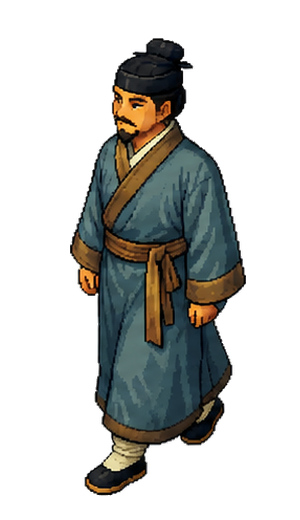
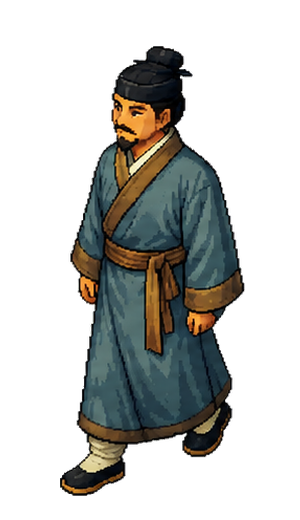
Mecenas: arregla el andar (piernas alternan) y ajusta tamaño
Revisión tras feedback: caminaban siempre con la misma pierna, se veían
grandes y entrecortados.

- Ciclo de andar REAL de 4 tiempos (contacto·paso·contacto·paso) con
  piernas alternas: la tira de IA solo tenía la pierna blanca delante, así
  que se sintetiza la zancada contraria espejando SOLO los pies bajo el bajo
  de la túnica (el resto del sprite intacto). Bob vertical natural del paso.
- Tamaño reducido (~65 px, altura de puerta) para encajar con los edificios.
- Silla reajustada (riderY) para la nueva escala del jinete.
- PNG_NF 7→4, cache-bust de sprites ?v=2.

Changed region(s): [[0.18, 0.0615, 0.84, 0.9538]]

diff --git a/assets/js/hac-char.js b/assets/js/hac-char.js
@@ -497,9 +497,9 @@ const HacChar = (function () {
   // ══════════════════════════════════════════════════════════════════════
   const PNG_DIRS  = ['SW', 'SE', 'NW', 'NE'];
   const PNG_VIEW  = { E: 'SE', SE: 'SE', S: 'SE', SW: 'SW', W: 'SW', NW: 'NW', N: 'NW', NE: 'NE' };
-  const PNG_NF    = 7;
+  const PNG_NF    = 4;                         // ciclo de andar (4 tiempos, alterna piernas)
   const M_W = 300, M_H = 520, M_FEET = 496;    // geometría del maestro
-  const PNG_H = 90;                            // alto del lienzo horneado (px dispositivo)
+  const PNG_H = 74;                            // alto del lienzo horneado (px dispositivo)
   const PNG_W = Math.round(M_W * PNG_H / M_H); //  → ~80 px de personaje
   const PNG_FEET = Math.round(M_FEET * PNG_H / M_H);
   let pngImgs = null, pngBaked = null, pngReadyFlag = false;
@@ -519,7 +519,7 @@ const HacChar = (function () {
   }
   function pngLoad() {
     if (typeof document === 'undefined' || !document.createElement) return;
-    const base = 'assets/img/char/', V = '?v=1';
+    const base = 'assets/img/char/', V = '?v=2';
     pngImgs = {}; let need = 0, got = 0;
     const done = () => { if (++got >= need && !pngReadyFlag) { try { pngBake(); } catch (e) {} } };
     PNG_DIRS.forEach(v => {

diff --git a/assets/js/hac-folk.js b/assets/js/hac-folk.js
@@ -1150,10 +1150,10 @@ const HacFolk = (function () {
   // riderY = altura (px disp.) de los PIES colgantes del jinete sentado sobre el
   // suelo (sube al jinete hasta la silla); riderDx = ajuste lateral sobre la silla.
   const HORSE_META = {
-    SW: { w: 56, h: 69, ax: 18, ay: 69, riderY: 5, riderDx: 5 },
-    SE: { w: 55, h: 68, ax: 15, ay: 68, riderY: 5, riderDx: -5 },
-    NW: { w: 50, h: 76, ax: 11, ay: 76, riderY: 8, riderDx: 4 },
-    NE: { w: 48, h: 75, ax: 36, ay: 75, riderY: 8, riderDx: -4 },
+    SW: { w: 56, h: 69, ax: 18, ay: 69, riderY: 9, riderDx: 5 },
+    SE: { w: 55, h: 68, ax: 15, ay: 68, riderY: 9, riderDx: -5 },
+    NW: { w: 50, h: 76, ax: 11, ay: 76, riderY: 12, riderDx: 4 },
+    NE: { w: 48, h: 75, ax: 36, ay: 75, riderY: 12, riderDx: -4 },
   };
   const HORSE_VIEW = { E: 'SE', SE: 'SE', S: 'SE', SW: 'SW', W: 'SW', NW: 'NW', N: 'NW', NE: 'NE' };
   const horseImg = {}; let horseReady = false, horseLoadStarted = false;

diff --git a/hacienda.html b/hacienda.html
@@ -35,7 +35,7 @@
 <script src="assets/js/hac-store.js?v=5"></script>
 <script src="assets/js/hac-tareas.js?v=2"></script>
 <script src="assets/js/personajes-data.js?v=2"></script>
-<script src="assets/js/hac-char.js?v=7"></script>
+<script src="assets/js/hac-char.js?v=8"></script>
 <script src="assets/js/hac-personajes.js?v=1"></script>
 <script src="assets/js/hac-render.js?v=4"></script>
 <script src="assets/js/hac-pixel.js?v=3"></script>
@@ -44,7 +44,7 @@
 <script src="assets/js/hac-flora.js?v=1"></script>
 <script src="assets/js/hac-iso.js?v=76"></script>
 <script src="assets/js/hac-dialog.js?v=2"></script>
-<script src="assets/js/hac-folk.js?v=61"></script>
+<script src="assets/js/hac-folk.js?v=62"></script>
 <script src="assets/js/hac-snapshots.js?v=1"></script>
 <script src="assets/js/hac-energia.js?v=3"></script>
 <script src="assets/js/hac-competencias.js?v=1"></script>

diff --git a/haciendas.html b/haciendas.html
@@ -76,7 +76,7 @@
 <script src="assets/js/hac-store.js?v=5"></script>
 <script src="assets/js/hac-tareas.js?v=2"></script>
 <script src="assets/js/personajes-data.js?v=2"></script>
-<script src="assets/js/hac-char.js?v=7"></script>
+<script src="assets/js/hac-char.js?v=8"></script>
 <script src="assets/js/hac-personajes.js?v=3"></script>
 <script src="assets/js/hac-solicitudes.js?v=2"></script>
 <script src="assets/js/hac-render.js?v=4"></script>
@@ -85,7 +85,7 @@
 <script src="assets/js/hac-flora.js?v=1"></script>
 <script src="assets/js/hac-iso.js?v=76"></script>
 <script src="assets/js/hac-dialog.js?v=2"></script>
-<script src="assets/js/hac-folk.js?v=61"></script>
+<script src="assets/js/hac-folk.js?v=62"></script>
 <script src="assets/js/haciendas.js?v=2"></script>
 <script src="assets/js/hac-onboard.js?v=12"></script>
 <script src="assets/js/chrome.js"></script>

diff --git a/admin-haciendas.html b/admin-haciendas.html
@@ -136,7 +136,7 @@
 <script src="assets/js/hac-store.js?v=5"></script>
 <script src="assets/js/hac-tareas.js?v=2"></script>
 <script src="assets/js/personajes-data.js?v=2"></script>
-<script src="assets/js/hac-char.js?v=7"></script>
+<script src="assets/js/hac-char.js?v=8"></script>
 <script src="assets/js/hac-personajes.js?v=3"></script>
 <script src="assets/js/hac-solicitudes.js?v=2"></script>
 <script src="assets/js/hac-perfiles.js?v=1"></script>
